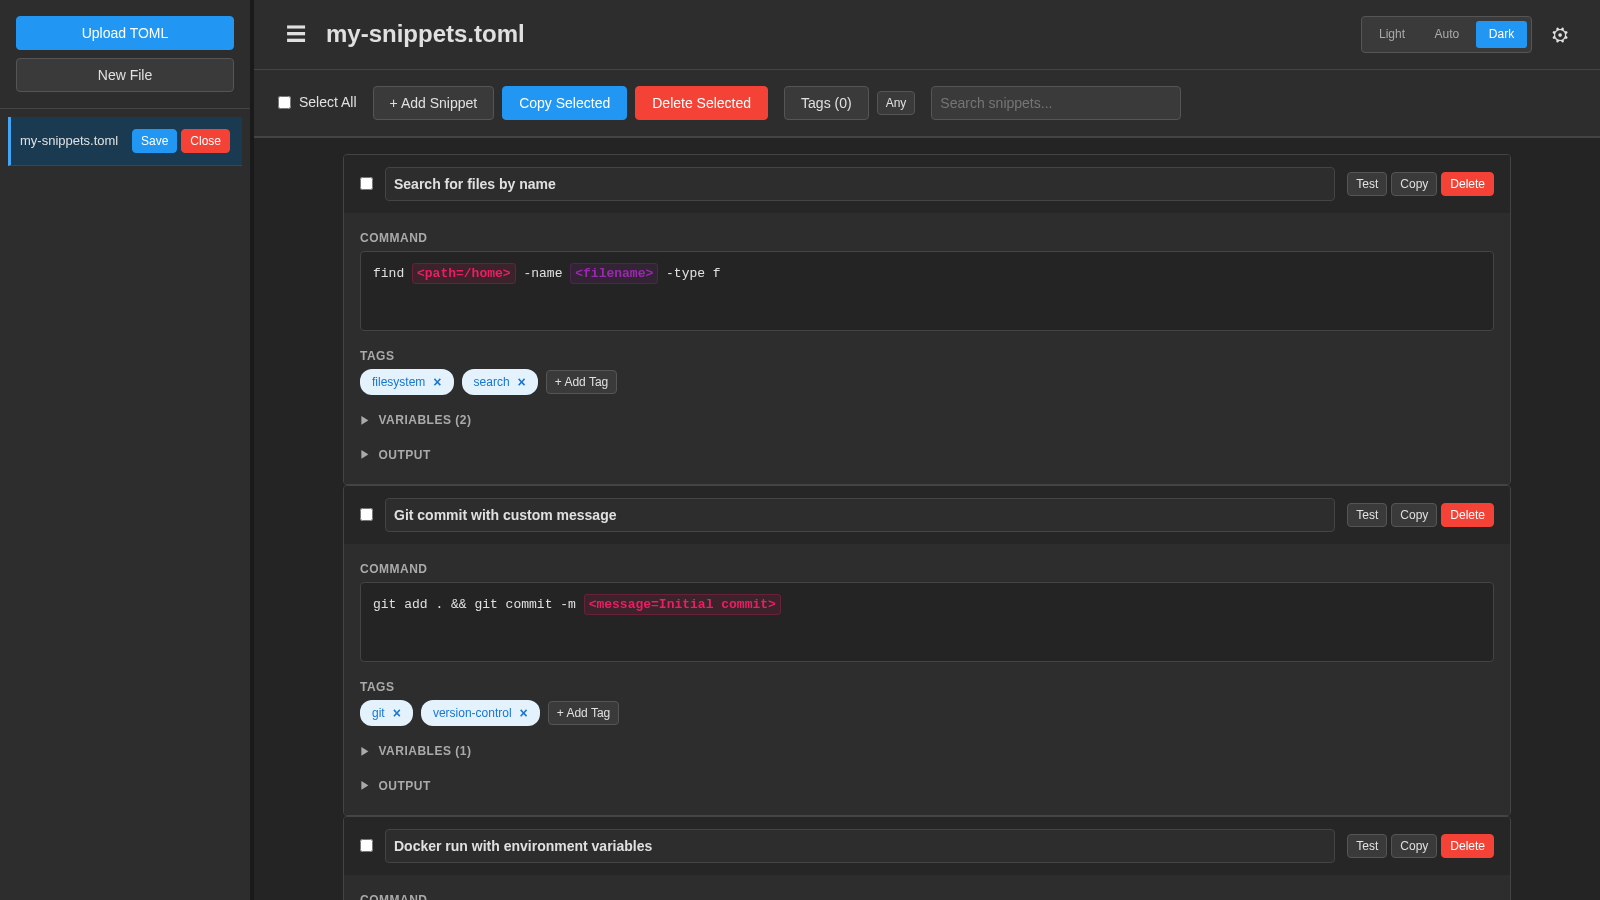
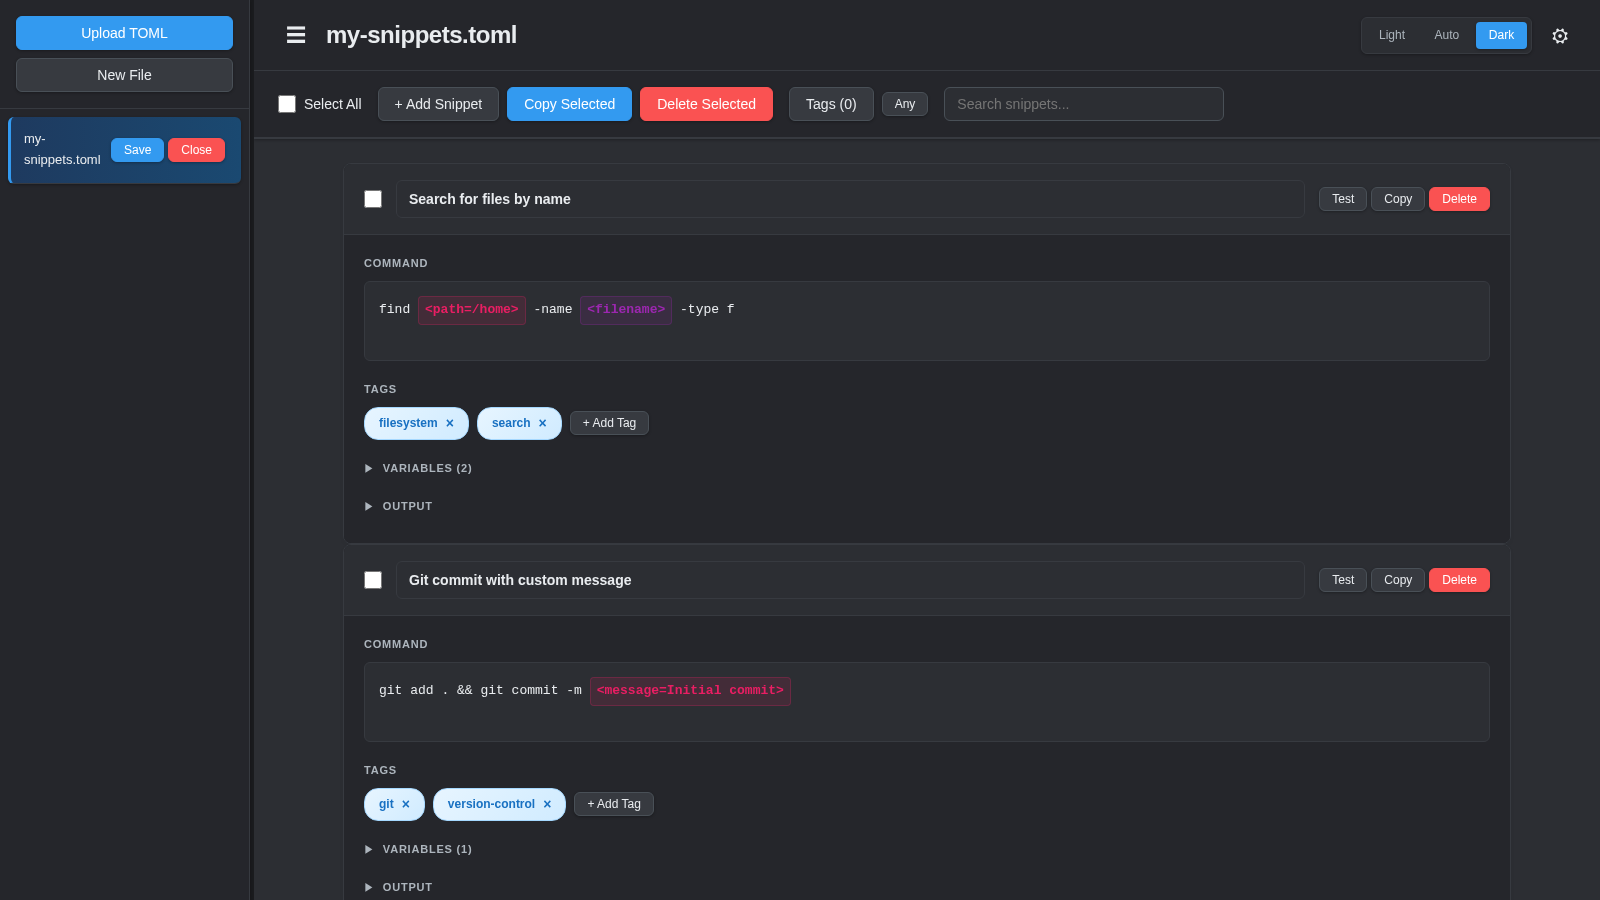
add updated screenshots and small css fix

diff --git a/styles.css b/styles.css
@@ -461,6 +461,13 @@ body {
     margin-left: -100%;
   }
 
+  .btn-icon#sidebar-toggle {
+    background-color: var(--bg-secondary);
+    box-shadow: var(--shadow-md);
+    z-index: 101;
+    position: relative;
+  }
+
   .modal-dialog {
     min-width: 90vw;
     max-width: 95vw;
